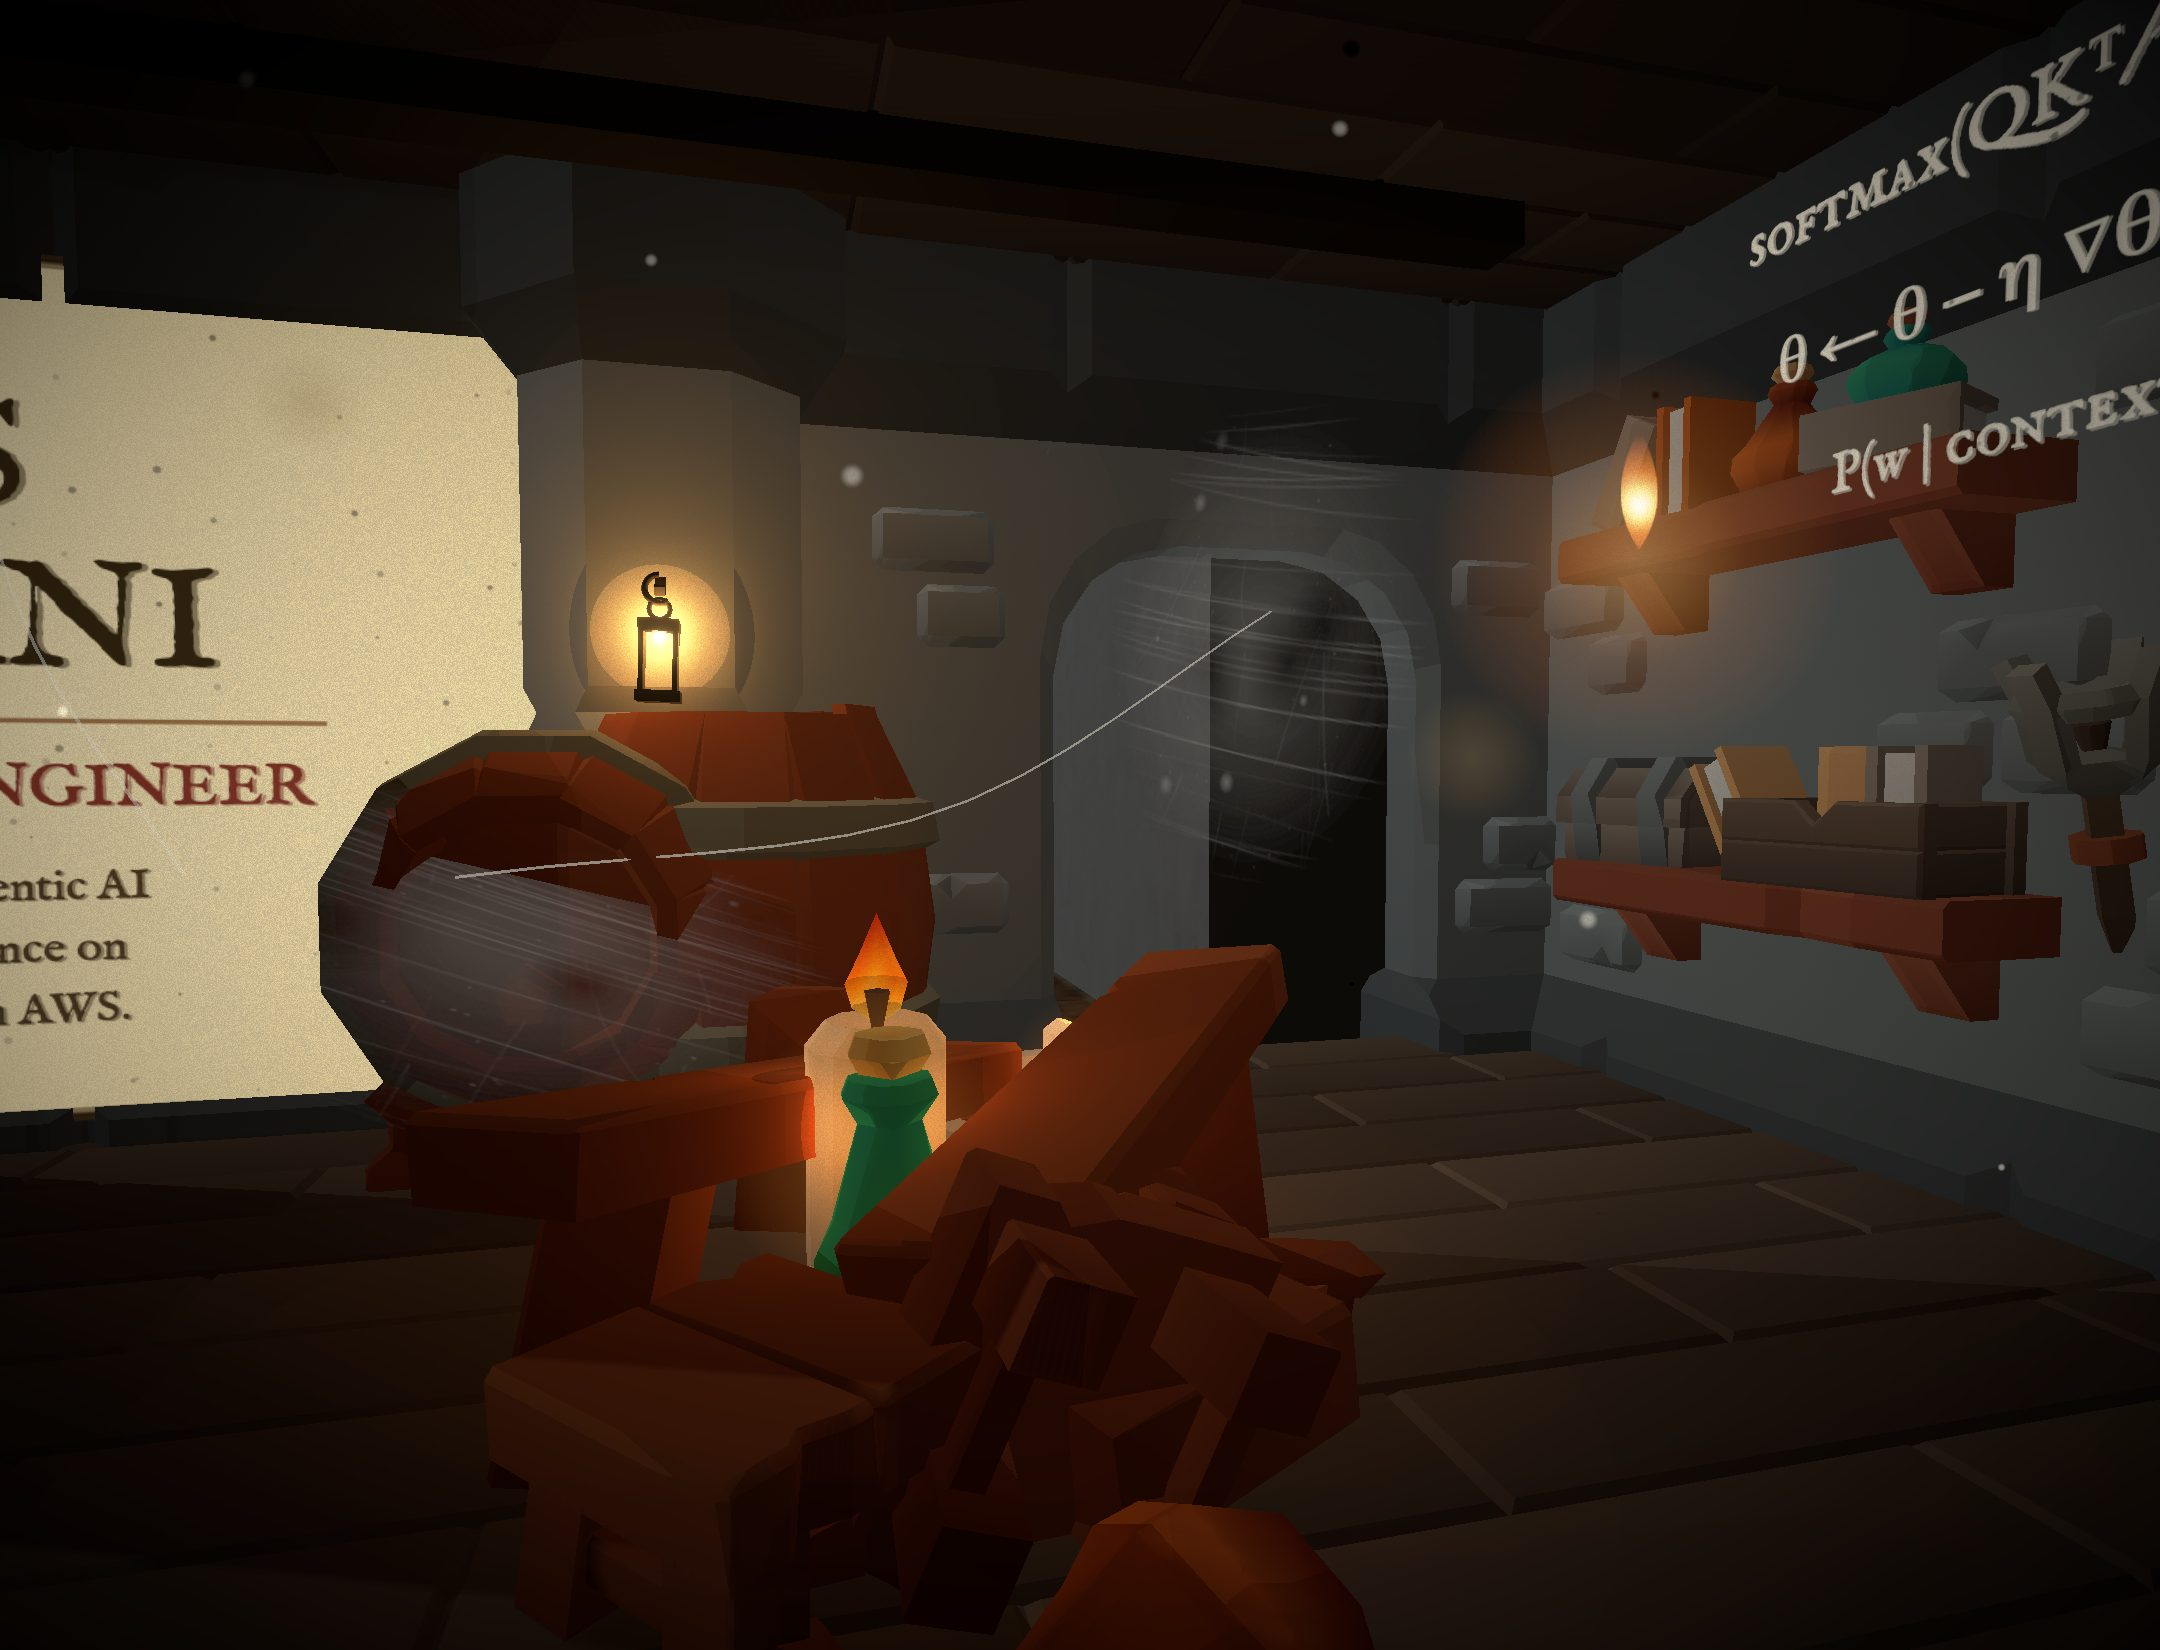
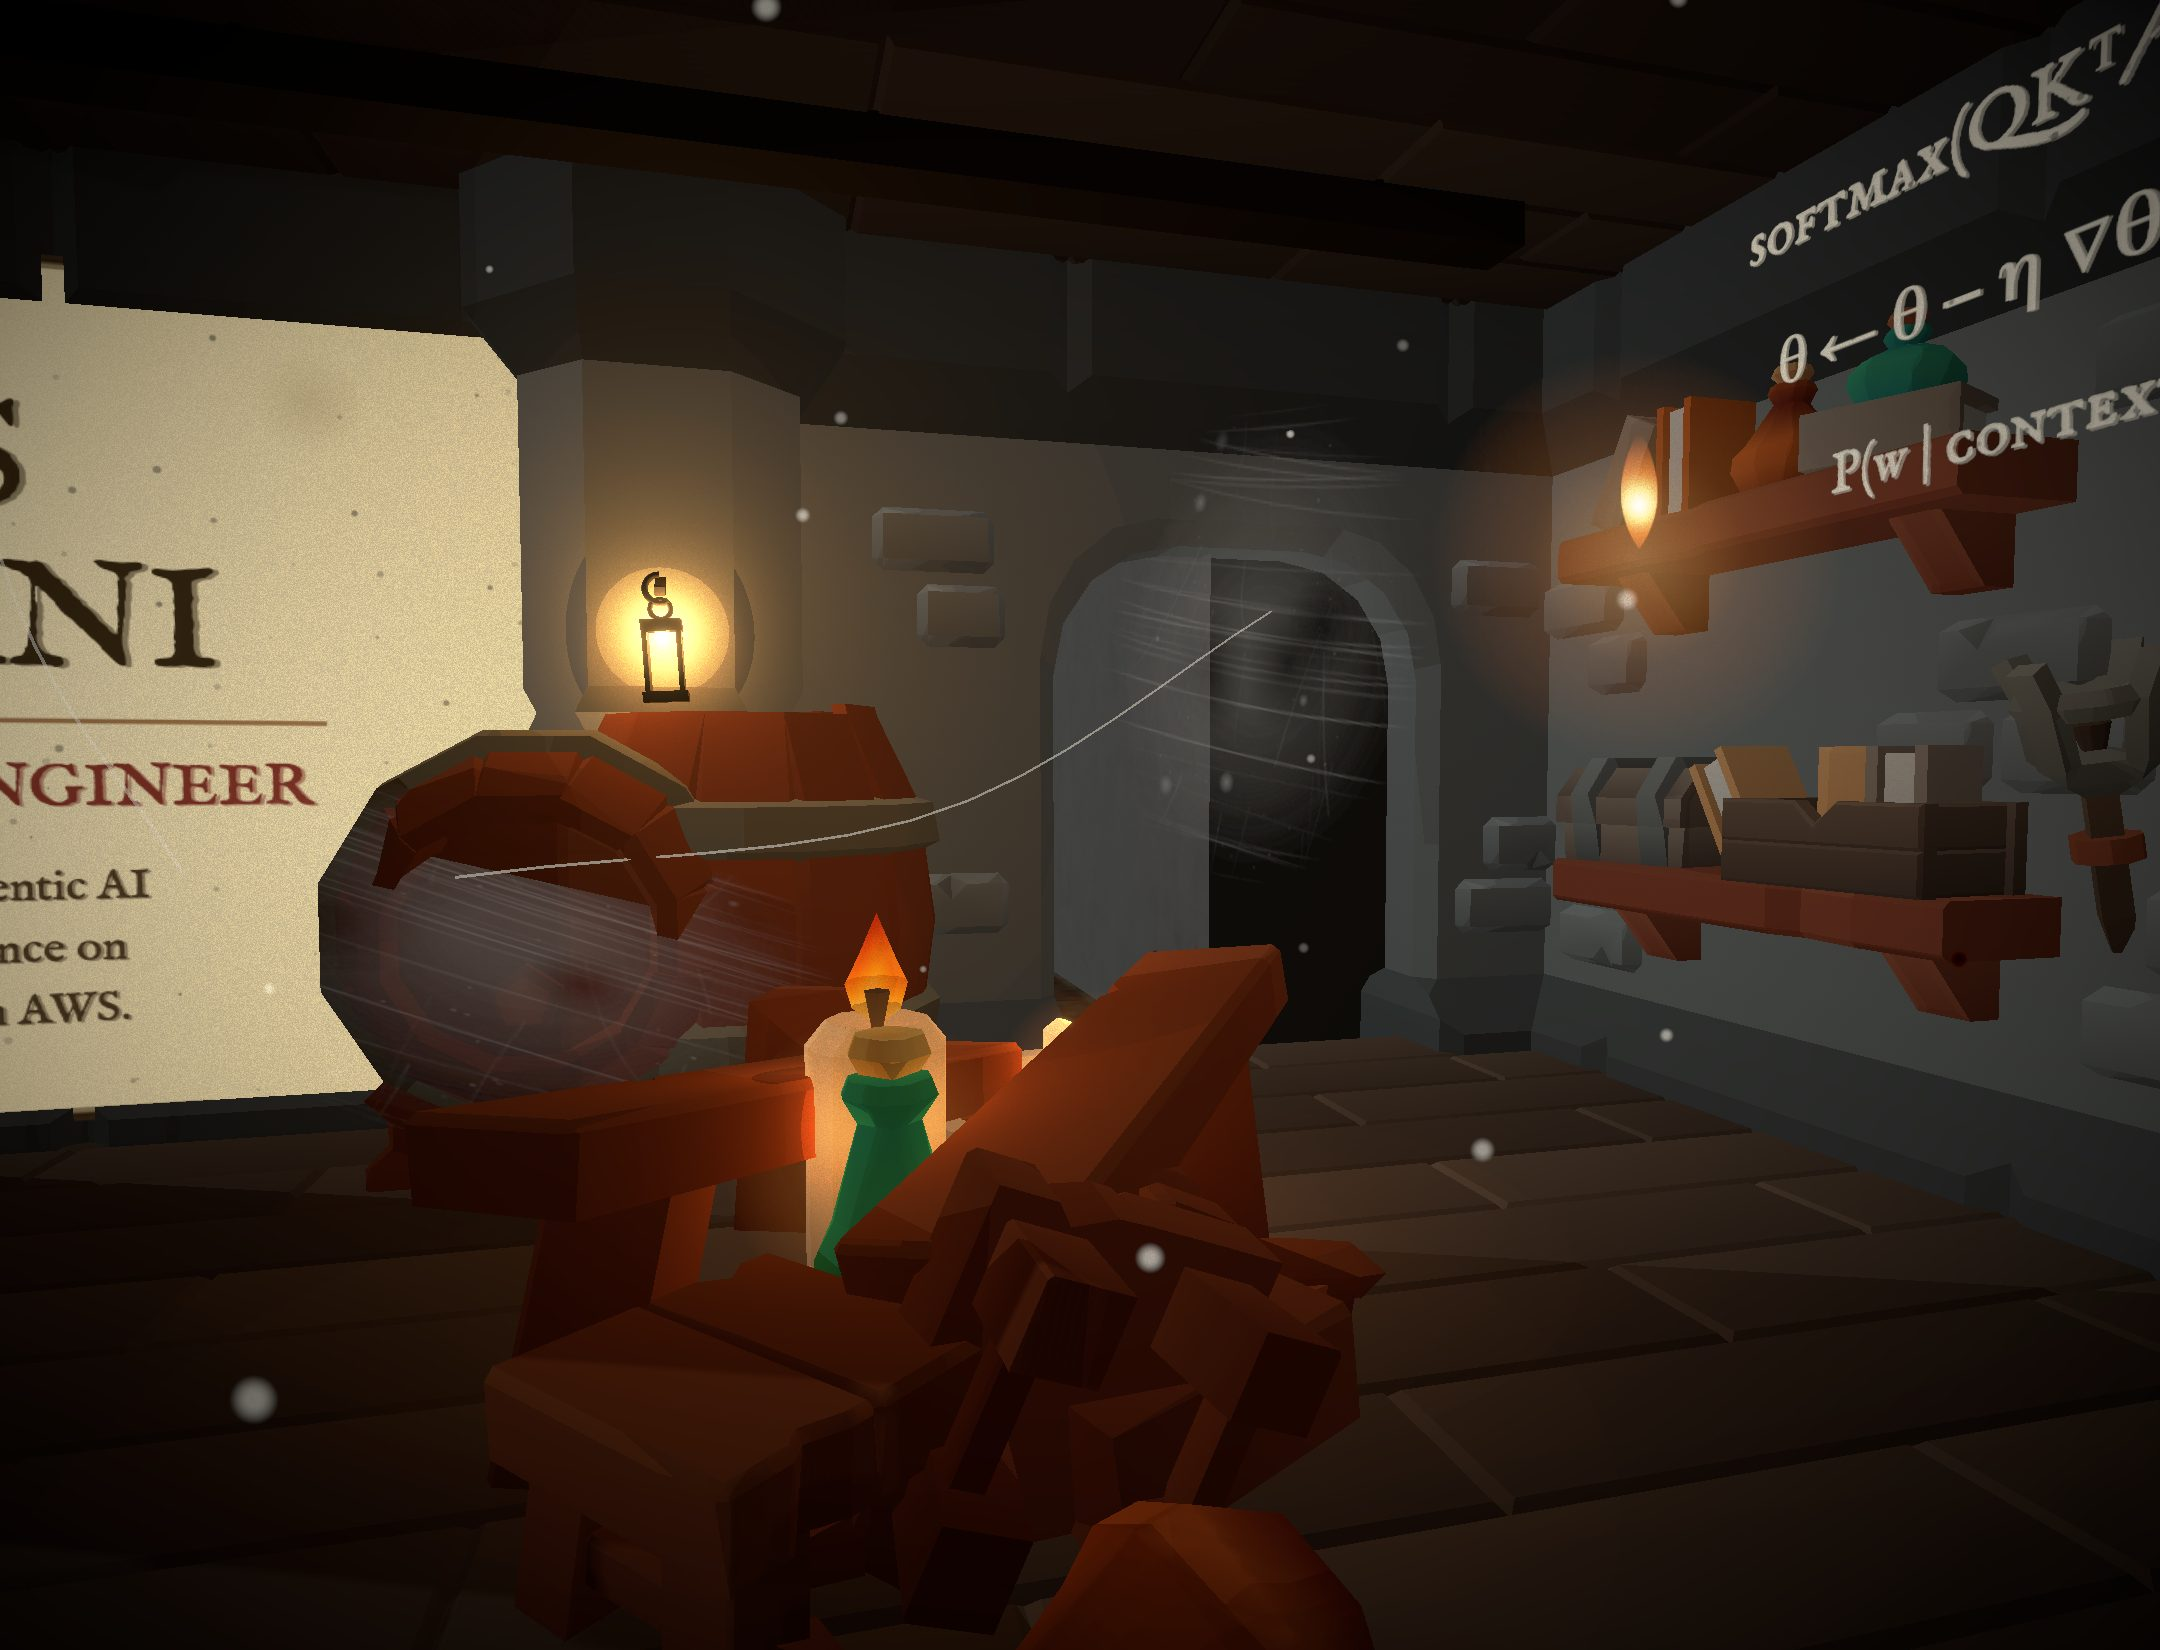
fix: the drawer that lights is the drawer that opens, and it opens
The leak sat at the hutch's own origin, which is the middle of the
cabinet — so it lit a different drawer than the one that is ajar. It now
lives inside the drawer group at [-0.55, -1.24, 0], with the drawer it is
coming out of, and brightens as the gap widens.

Pulling it is a cutscene rather than a cut. The drawer eases out in the
scene and the booklet only rises once it is actually open; opening used to
jump straight to a panel, which made the egg feel like a button rather
than something found in a piece of furniture. Closing runs it backwards.

Hanging the lantern is one way now. It was a toggle, and taking it back
dropped the WHOLE house to black — every room, every board and the nav
behind a full-page shade, with the only way out being to scroll back to a
hook you cannot see. Reproduced by hand in a browser: html went to
lights-off with flashlight-shade at opacity 1 and nothing else on screen.

And the camera can no longer be in a different room from the page. Every
Chapter wrote journey.t from its own ScrollTrigger, so on any jump they
all updated in DOM order and whichever fired LAST won — the scene showed
one room while the DOM was at another. Only the active trigger writes it
now, and a reconcile pass on the gsap ticker catches scrolling lenis did
not author. Measured gradual vs jumped at five depths: identical to two
decimal places, against a 2.8-room gap before.

diff --git a/src/scene/StudyRoom.jsx b/src/scene/StudyRoom.jsx
@@ -9,6 +9,7 @@ import { Piece, regrade } from './toonify'
 import { Inscription, roughText } from './inscriptions'
 import { ProseBoard } from './RoomCopy'
 import { Hotspot } from './Hotspot'
+import { drawer } from './drawer'
 import { makeWebSheetTexture, SpiderModel } from './RoomDressing'
 
 // ============================================================
@@ -263,7 +264,7 @@ function Wardrobe() {
 // fix is to move Room I's DOORWAY left (doorCol) so the walk and the
 // furniture stop sharing the same three units, which is a change to the
 // room shell rather than the dressing.
-function Hutch({ glintRef, leakRef }) {
+function Hutch({ glintRef, leakRef, drawerRef }) {
   const wood = { color: '#2e2114', roughness: 0.8 }
   const woodDark = { color: '#221709', roughness: 0.85 }
   return (
@@ -318,9 +319,13 @@ function Hutch({ glintRef, leakRef }) {
           <meshStandardMaterial color={c} roughness={0.75} />
         </mesh>
       ))}
-      {/* THE DRAWER — pulled part-way, paper catching the light */}
-      <group position={[-0.55, -1.24, 0]}>
+      {/* THE DRAWER — pulled part-way, paper catching the light.
+          The leak used to sit at the hutch's own origin, which is the
+          middle of the cabinet: it lit a different drawer entirely. It
+          belongs in here, with the drawer it is coming out of. */}
+      <group ref={drawerRef} position={[-0.55, -1.24, 0]}>
         <Hotspot name="drawer" reach={22} />
+        <pointLight ref={leakRef} position={[0, 0.04, 0.66]} color="#f0c98a" intensity={0} distance={3.2} decay={2} />
         <mesh position={[0, 0, 0.3]} castShadow>
           <boxGeometry args={[0.95, 0.26, 0.6]} />
           <meshStandardMaterial color="#180f07" roughness={0.9} />
@@ -333,12 +338,6 @@ function Hutch({ glintRef, leakRef }) {
           <sphereGeometry args={[0.035, 10, 8]} />
           <meshStandardMaterial color="#6b5a3a" roughness={0.45} metalness={0.4} />
         </mesh>
-        {/* Light leaking out of the gap. The drawer being ajar was the only
-            signal that it opens, and an unlit crack in a dark room reads as
-            scenery — this is the difference between an object you notice
-            and one you walk past. Warm, weak, and slowly breathing, so it
-            draws the eye without announcing itself as UI. */}
-        <pointLight ref={leakRef} position={[0.1, 0.14, 0.6]} color="#f0c98a" intensity={0} distance={3.6} decay={2} />
         <mesh ref={glintRef} position={[0.1, 0.16, 0.5]} rotation={[-1.25, 0.1, 0.08]}>
           <planeGeometry args={[0.46, 0.14]} />
           <meshStandardMaterial
@@ -652,6 +651,7 @@ export default function StudyRoom({ lit }) {
   const swayRef = useRef()
   const glintRef = useRef()
   const leakRef = useRef()
+  const drawerRef = useRef()
 
   // this room is authored in JSX rather than assembled from kit GLBs, so
   // it needs pulling into the same 3-tone ramp the hall gets for free
@@ -667,8 +667,13 @@ export default function StudyRoom({ lit }) {
       swayRef.current.rotation.z = Math.sin(t * 0.55) * 0.05
       swayRef.current.rotation.x = Math.sin(t * 0.38 + 1) * 0.03
     }
+    // the pull: eased toward whatever the DOM asked for, so opening the
+    // drawer is something you watch happen rather than a cut to a booklet
+    drawer.at += (drawer.target - drawer.at) * 0.12
+    if (drawerRef.current) drawerRef.current.position.z = drawer.at * 0.62
     if (leakRef.current) {
-      leakRef.current.intensity = 3.6 + Math.sin(t * 1.6) * 1.1
+      // the gap widens as it comes out, so the light grows with it
+      leakRef.current.intensity = (3.4 + Math.sin(t * 1.6) * 1.0) * (1 + drawer.at * 1.6)
     }
     if (glintRef.current) {
       glintRef.current.material.emissiveIntensity = 0.5 + Math.sin(t * 2.1) * 0.3
@@ -681,7 +686,7 @@ export default function StudyRoom({ lit }) {
       <Shell />
       <StudyWindow lit={lit} />
       <Wardrobe />
-      <Hutch glintRef={glintRef} leakRef={leakRef} />
+      <Hutch glintRef={glintRef} leakRef={leakRef} drawerRef={drawerRef} />
       <Table />
       <Chair position={[-1.2, 0, 2.6]} rotY={-0.6} />
       <Chair position={[-4.4, 0, 0.2]} rotY={3.4} />

diff --git a/src/components/DrawerRoom.jsx b/src/components/DrawerRoom.jsx
@@ -5,6 +5,7 @@ import Chapter from './Chapter'
 import Cobweb from './Cobweb'
 import Spider from './Spider'
 import { journey } from '../scene/journey'
+import { drawer } from '../scene/drawer'
 import Reach from './Reach'
 import { useDevice } from '../hooks/useDevice'
 
@@ -146,7 +147,7 @@ function Booklet({ open, page, setPage, toggle }) {
 
   if (!open) return null
   return (
-    <div className="booklet-backdrop" onClick={toggle}>
+    <div className="booklet-backdrop booklet-backdrop--wait" onClick={toggle}>
       <div
         className="booklet"
         onClick={(e) => e.stopPropagation()}
@@ -200,8 +201,19 @@ export default function DrawerRoom() {
 
   const simple = !immersive
 
+  // Opening is a short cutscene: the drawer slides out, and the booklet
+  // only comes up once it is actually open. Cutting straight to a panel
+  // made the egg feel like a button rather than a thing you found in a
+  // piece of furniture. Closing runs it backwards.
   const toggle = () => {
-    setOpen((v) => !v)
+    setOpen((wasOpen) => {
+      if (wasOpen) {
+        drawer.target = 0
+        return false
+      }
+      drawer.target = 1
+      return true
+    })
     setPage(0)
   }
 

diff --git a/src/components/LanternHook.jsx b/src/components/LanternHook.jsx
@@ -10,15 +10,23 @@ import Reach from './Reach'
 // fixed band down the right edge of the viewport, live on every room and
 // every scroll position, which made the light feel like a page-wide toggle
 // rather than an act you perform on an object.
+// Hanging the lantern is ONE WAY. It used to toggle, and taking it back
+// dropped the whole house to black — not just the hall. Deep in the manor
+// that means every room, the boards, and the nav all vanish behind a
+// full-page shade with only a small pool under the cursor, and the only
+// way out is to scroll all the way back to a hook you cannot see. Lighting
+// the house is something you do once.
 export default function LanternHook() {
   const { lit, setLit } = useLight()
+
+  if (lit) return null
 
   return (
     <Reach
       name="hook"
-      onClick={() => setLit(!lit)}
-      label={lit ? 'Take the lantern back from the hook' : 'Hang the lantern on the iron hook'}
-      title={lit ? 'Take the lantern back' : 'Hang the lantern'}
+      onClick={() => setLit(true)}
+      label="Hang the lantern on the iron hook"
+      title="Hang the lantern"
     />
   )
 }

diff --git a/src/index.css b/src/index.css
@@ -2570,3 +2570,23 @@ html.overflow-lock body {
 .hero--diegetic .room-shade {
   display: none !important;
 }
+
+/* The booklet waits for the drawer. The scene eases the drawer out over
+   roughly half a second; the panel fading in over the same beat is what
+   turns "a dialog opened" into "you pulled a drawer and there was
+   something in it". */
+.booklet-backdrop--wait {
+  animation: bookletWait 0.85s var(--ease-out) both;
+}
+@keyframes bookletWait {
+  0%   { opacity: 0; backdrop-filter: blur(0px); }
+  45%  { opacity: 0; backdrop-filter: blur(0px); }
+  100% { opacity: 1; }
+}
+.booklet-backdrop--wait .booklet {
+  animation: bookletRise 0.7s 0.36s var(--ease-out) both;
+}
+@keyframes bookletRise {
+  from { opacity: 0; transform: translateY(26px) scale(0.965); }
+  to   { opacity: 1; transform: none; }
+}

diff --git a/src/components/Chapter.jsx b/src/components/Chapter.jsx
@@ -54,7 +54,7 @@ export default function Chapter({ id, numeral, title, subtitle, pin = true, exit
         start: 'top 80%',
         end: 'bottom 20%',
         scrub: true,
-        onUpdate: (self) => { journey.t = room + self.progress },
+        onUpdate: (self) => { if (self.isActive) journey.t = room + self.progress },
       })
     }
 
@@ -93,7 +93,7 @@ export default function Chapter({ id, numeral, title, subtitle, pin = true, exit
           pin: true,
           scrub: 0.5,
           anticipatePin: 1,
-          onUpdate: room == null ? undefined : (self) => { journey.t = room + self.progress },
+          onUpdate: room == null ? undefined : (self) => { if (self.isActive) journey.t = room + self.progress },
         },
       })
       // walk through the doorway: the room opens from a door-shaped arch

diff --git a/src/components/Hero.jsx b/src/components/Hero.jsx
@@ -42,7 +42,7 @@ export default function Hero() {
       onUpdate: (self) => {
         const p = self.progress
         // room 0 occupies journey.t 0→1; the last stretch is the walk out
-        journey.t = p
+        if (self.isActive) journey.t = p
         // text slips past the viewer as the walk begins — driven here so
         // it can never desync from the pin (a second ScrollTrigger would
         // measure against the pin spacer and drift)

diff --git a/src/components/Projects.jsx b/src/components/Projects.jsx
@@ -33,7 +33,7 @@ export default function Projects() {
         scrub: 0.6,
         invalidateOnRefresh: true,
         // room IV of the manor — the gallery the camera walks along
-        onUpdate: (self) => { journey.t = 4 + self.progress },
+        onUpdate: (self) => { if (self.isActive) journey.t = 4 + self.progress },
       },
     })
     tl.to(track, { x: () => -getDistance(), ease: 'none', duration: 0.78 }, 0.08)

diff --git a/src/scene/drawer.js b/src/scene/drawer.js
@@ -1,0 +1,4 @@
+// The study drawer's open amount, 0..1, shared between the DOM (which
+// starts the pull) and the scene (which animates it). Plain module state
+// like journey and hotspots — nothing here may cause a React render.
+export const drawer = { target: 0, at: 0 }
